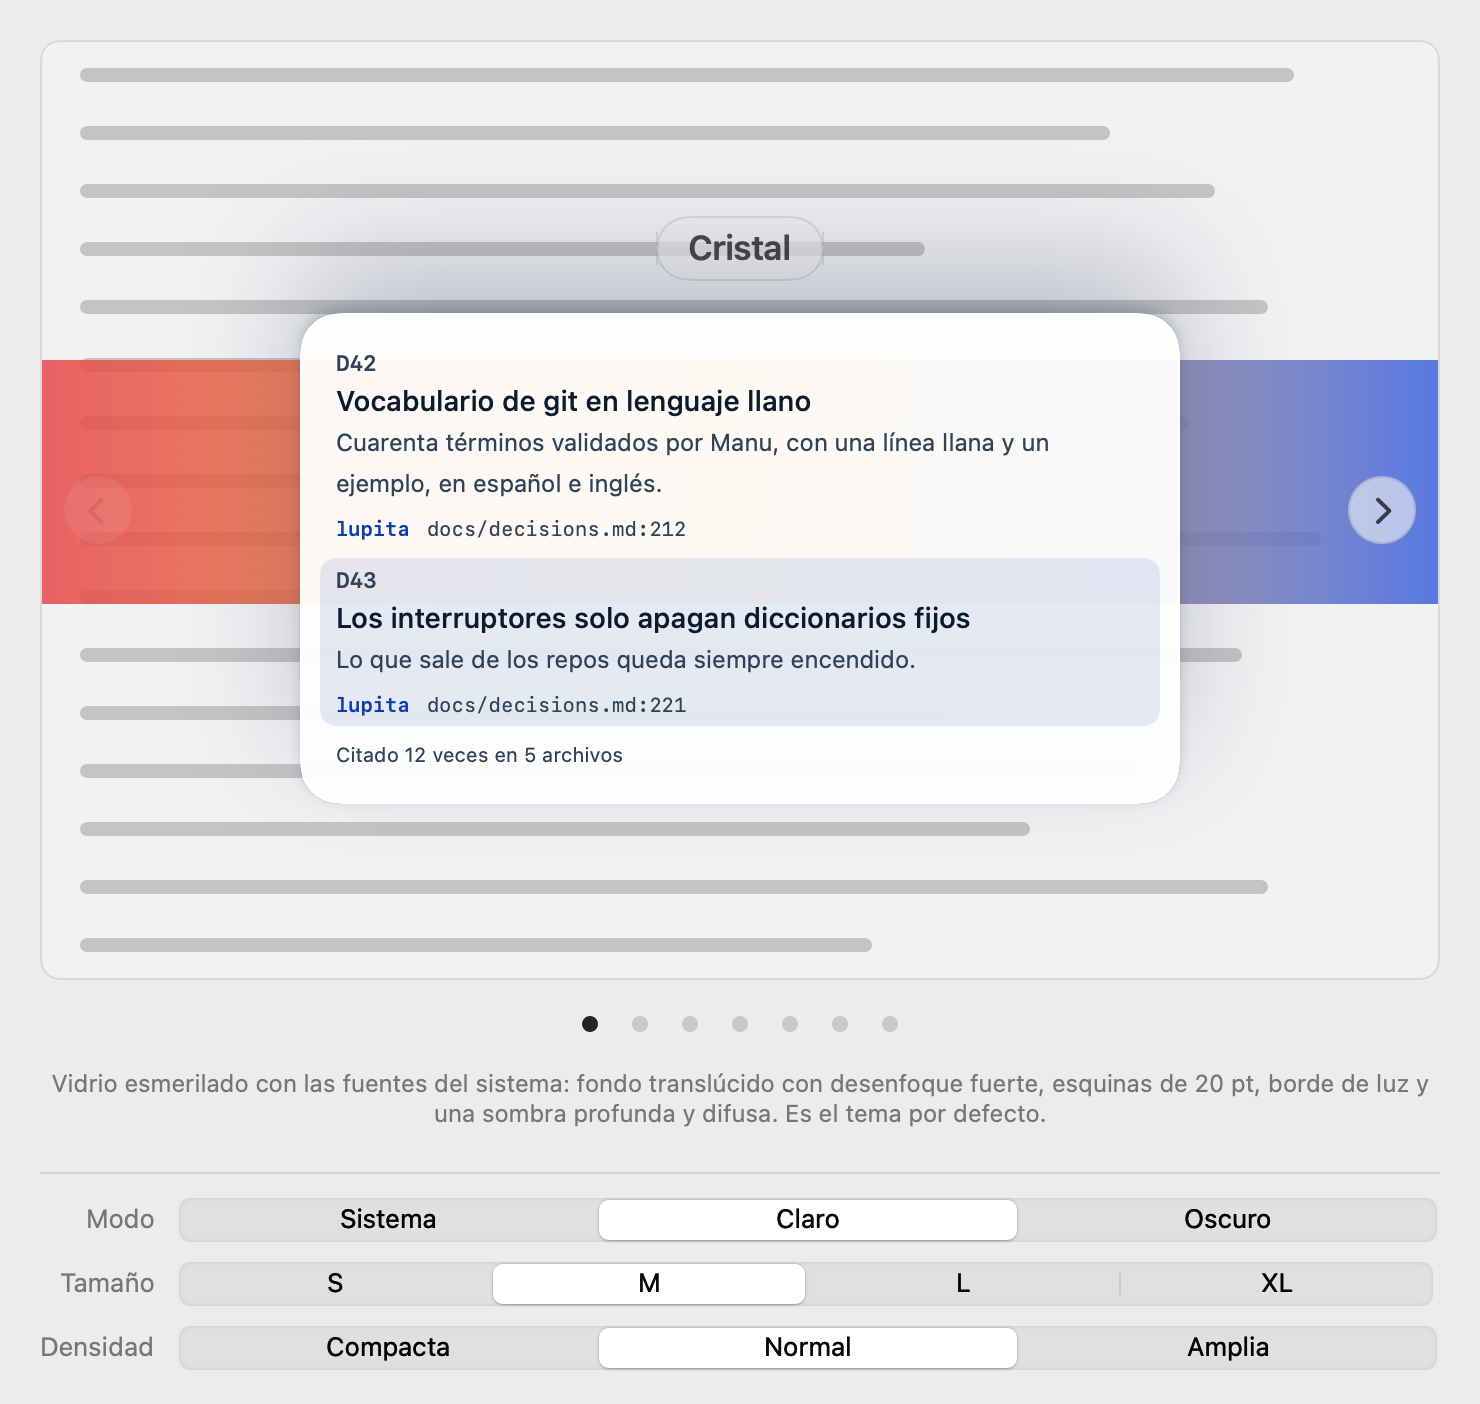
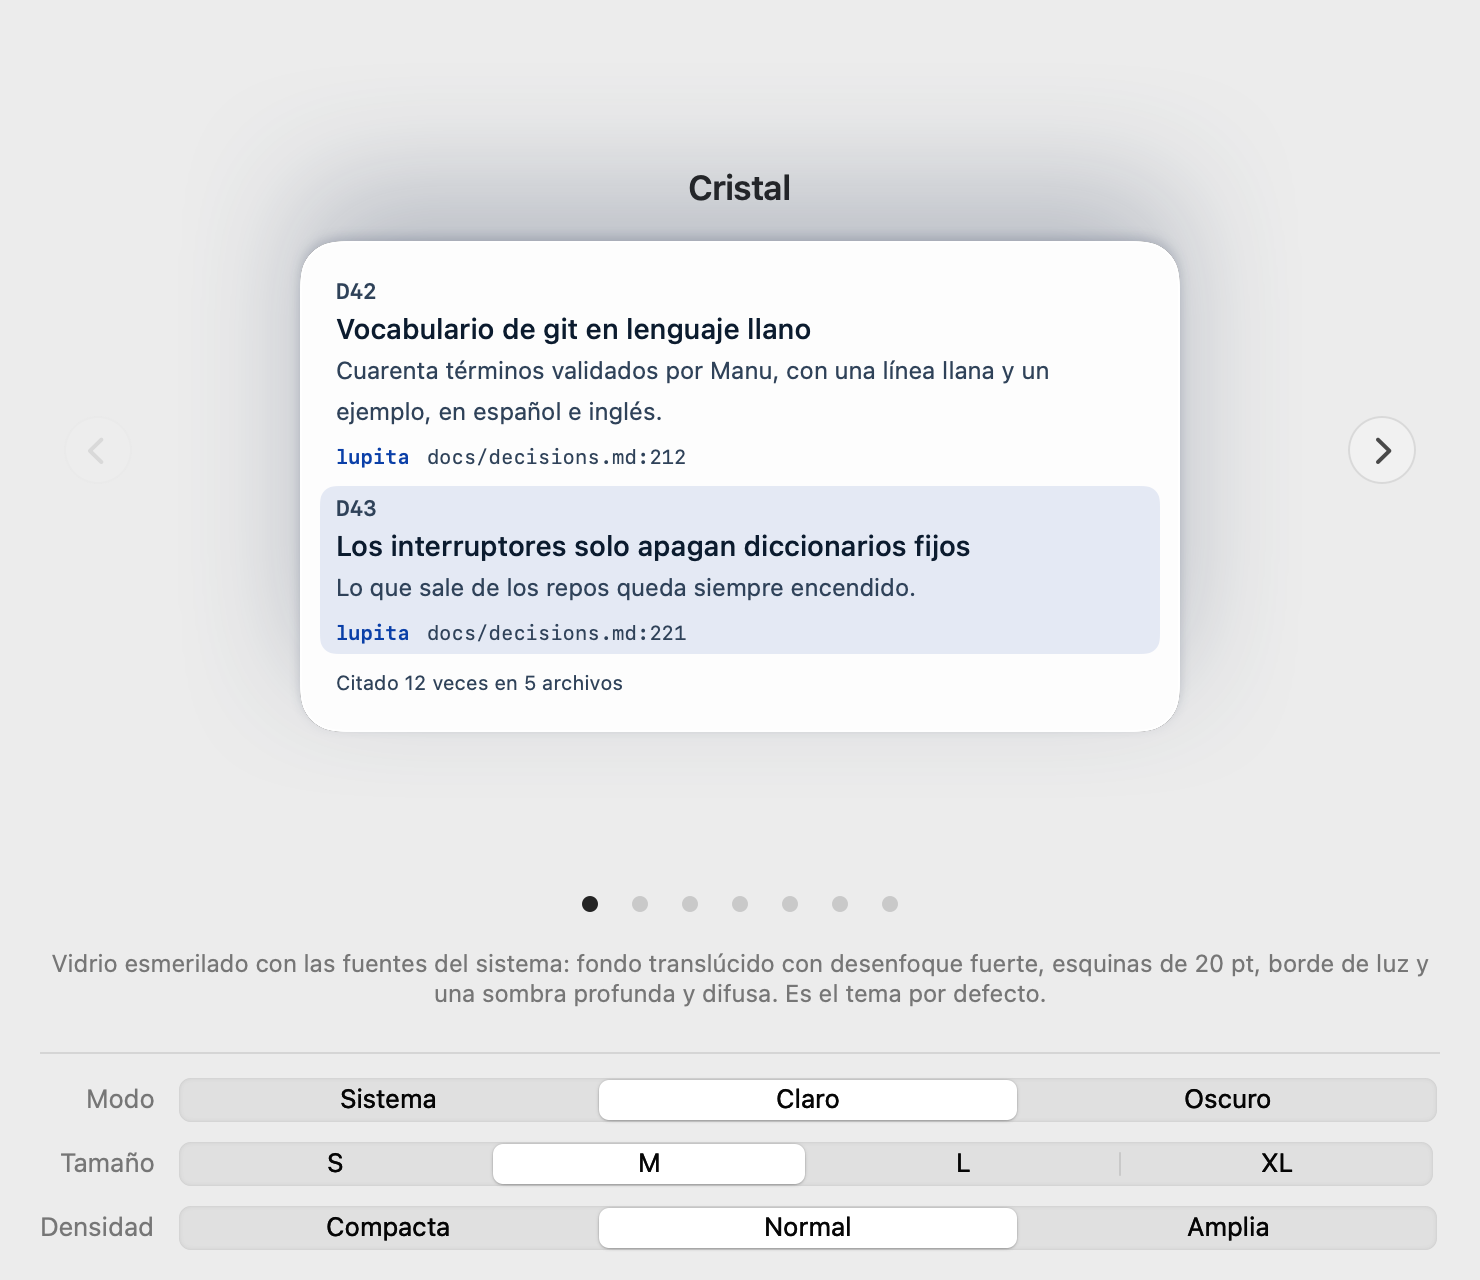
fix(app): Aspecto opens centred (size before centring), no faux backdrop, shorter window

diff --git a/Sources/LupitaApp/AspectoWindow.swift b/Sources/LupitaApp/AspectoWindow.swift
@@ -2,7 +2,7 @@ import AppKit
 import LupitaCore
 import SwiftUI
 
-/// «Aspecto» (D55): a carousel of the themes over a fixed faux page, and under it the reader's other settings. One slide per
+/// «Aspecto» (D55): a carousel of the themes, and under it the reader's other settings. One slide per
 /// theme, each with its name and a representative card drawn at the chosen size and density; moving to a slide chooses
 /// that theme. Every control goes through `AppearanceModel`, which saves it; the real tooltip reads it when it opens.
 struct AspectoView: View {
@@ -17,11 +17,11 @@ struct AspectoView: View {
     private var drag: CGFloat { get { dragState.wrappedValue } nonmutating set { dragState.wrappedValue = newValue } }
 
     static let stageWidth: CGFloat = 700
-    static let stageHeight: CGFloat = 470
+    static let stageHeight: CGFloat = 410
     static let stagePad: CGFloat = 28
     static let contentWidth: CGFloat = 740
     /// The window never changes size: stage, dots, the theme's blurb (two lines) and three controls.
-    static let contentHeight: CGFloat = 702
+    static let contentHeight: CGFloat = 640
     private static let ids = TooltipTheme.ids
 
     var systemAccessibility: ThemeAccessibility {
@@ -35,7 +35,6 @@ struct AspectoView: View {
         p.themeID = id
         return p.theme(systemIsDark: colorScheme == .dark, accessibility: systemAccessibility)
     }
-    var sampleIsDark: Bool { theme(model.preferences.themeID).mode == .dark }
     var state: GalleryState { GalleryStates.all.first { $0.id == model.state } ?? GalleryStates.all[0] }
 
     var body: some View {
@@ -91,7 +90,6 @@ struct AspectoView: View {
 
     private var stage: some View {
         ZStack {
-            FauxPage(dark: sampleIsDark)   // the page stays still; only the slides move
             HStack(spacing: 0) {
                 ForEach(Array(Self.ids.enumerated()), id: \.element) { _, id in
                     AspectoSlide(theme: theme(id), state: state).frame(width: Self.stageWidth, height: Self.stageHeight)
@@ -103,9 +101,8 @@ struct AspectoView: View {
             arrow("chevron.right", S.appearanceNext, enabled: index < Self.ids.count - 1, alignment: .trailing) { go(to: index + 1) }
         }
         .frame(width: Self.stageWidth, height: Self.stageHeight)
-        .clipShape(RoundedRectangle(cornerRadius: 10))
-        .overlay { RoundedRectangle(cornerRadius: 10).strokeBorder(sampleIsDark ? Color(white: 0.23) : Color(white: 0.85)) }
-        .environment(\.colorScheme, sampleIsDark ? .dark : .light)
+        .clipped()
+        .contentShape(Rectangle())
         .gesture(DragGesture(minimumDistance: 6)
             .onChanged { drag = $0.translation.width }
             .onEnded { finish($0.translation.width) })
@@ -164,9 +161,7 @@ private struct AspectoSlide: View {
         let fit = natural.height > 0 ? min(1, (AspectoView.stageHeight - 24) / natural.height) : 1
         VStack(spacing: 16) {
             Text(theme.name).font(.title2.weight(.semibold)).foregroundStyle(.primary)
-                .padding(.horizontal, 16).padding(.vertical, 6)
-                .background(.regularMaterial, in: Capsule()).overlay(Capsule().strokeBorder(.separator))
-            state.view(theme)
+            state.view(theme).environment(\.colorScheme, theme.mode == .dark ? .dark : .light)
         }
         .background(GeometryReader { geo in Color.clear.onAppear { natural = geo.size }.onChange(of: geo.size) { _, s in natural = s } })
         .scaleEffect(fit)
@@ -311,6 +306,7 @@ final class AspectoWindow {
             w.title = S.appearanceTitle
             w.styleMask = [.titled, .closable]
             w.isReleasedWhenClosed = false
+            w.setContentSize(NSSize(width: AspectoView.contentWidth, height: AspectoView.contentHeight))   // before centring: the hosting view sizes itself later
             w.center()
             window = w
         }
